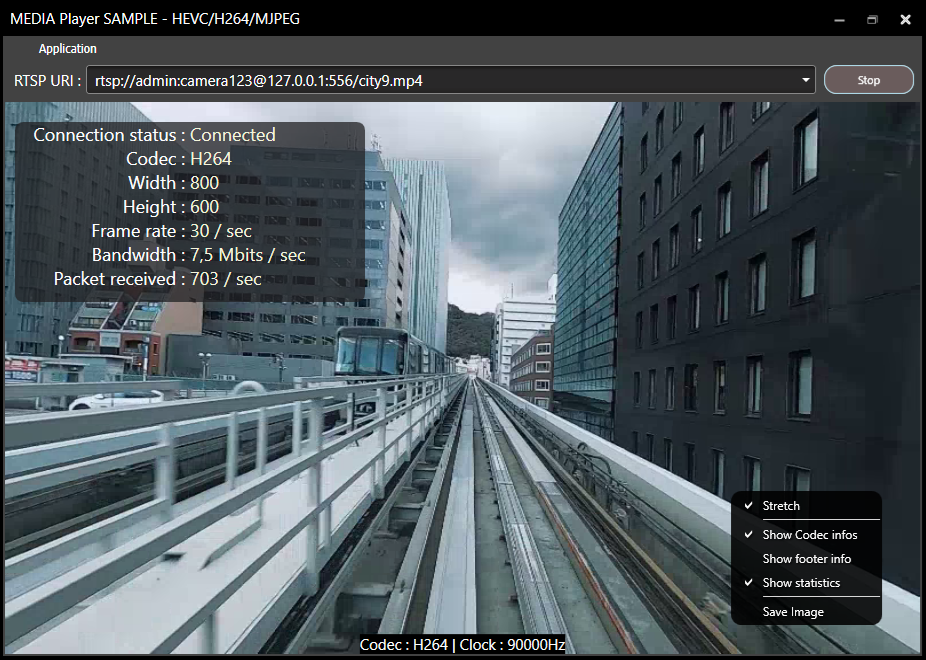
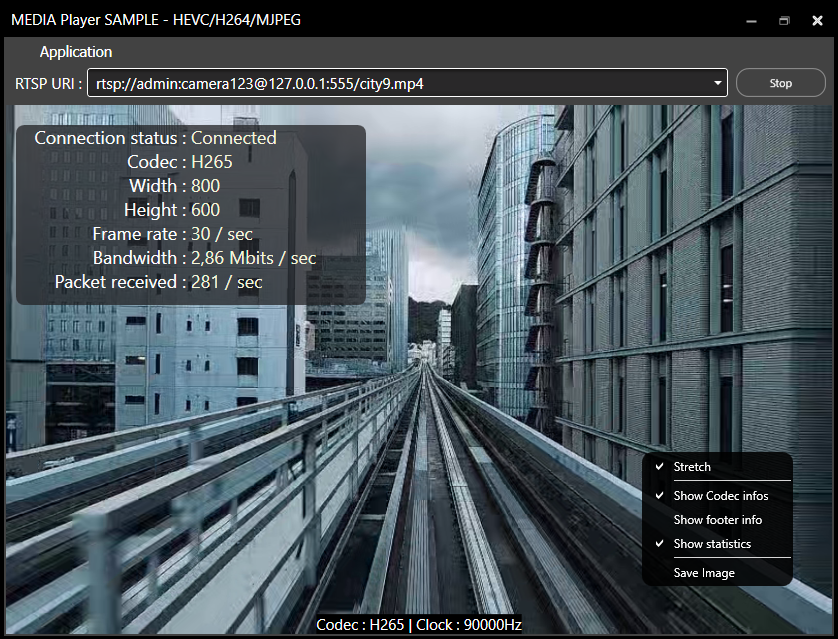
changing home picture of the repo

diff --git a/RabbitOM.Player/Configuration/ApplicationConfiguration.cs b/RabbitOM.Player/Configuration/ApplicationConfiguration.cs
@@ -19,6 +19,9 @@ namespace RabbitOM.Player.Configuration
             yield return "rtsp://admin:camera123@127.0.0.1:554/city5.mp4";
             yield return "rtsp://admin:camera123@127.0.0.1:554/city6.mp4";
             yield return "rtsp://admin:camera123@127.0.0.1:554/city7.mp4";
+            yield return "rtsp://admin:camera123@127.0.0.1:554/city8.mp4";
+            yield return "rtsp://admin:camera123@127.0.0.1:554/city9.mp4";
+            yield return "rtsp://admin:camera123@127.0.0.1:554/city10.mp4";
             yield return "rtsp://admin:camera123@127.0.0.1:554/toy.mp4";
             yield return "rtsp://admin:camera123@127.0.0.1:554/movie.mp4";
             yield return "rtsp://admin:camera123@127.0.0.1:554/earth.avi";
@@ -43,6 +46,9 @@ namespace RabbitOM.Player.Configuration
             yield return "rtsp://admin:camera123@127.0.0.1:555/city5.mp4";
             yield return "rtsp://admin:camera123@127.0.0.1:555/city6.mp4";
             yield return "rtsp://admin:camera123@127.0.0.1:555/city7.mp4";
+            yield return "rtsp://admin:camera123@127.0.0.1:555/city8.mp4";
+            yield return "rtsp://admin:camera123@127.0.0.1:555/city9.mp4";
+            yield return "rtsp://admin:camera123@127.0.0.1:555/city10.mp4";
             yield return "rtsp://admin:camera123@127.0.0.1:555/toy.mp4";
             yield return "rtsp://admin:camera123@127.0.0.1:555/movie.mp4";
             yield return "rtsp://admin:camera123@127.0.0.1:555/earth.avi";
@@ -67,6 +73,9 @@ namespace RabbitOM.Player.Configuration
             yield return "rtsp://admin:camera123@127.0.0.1:556/city5.mp4";
             yield return "rtsp://admin:camera123@127.0.0.1:556/city6.mp4";
             yield return "rtsp://admin:camera123@127.0.0.1:556/city7.mp4";
+            yield return "rtsp://admin:camera123@127.0.0.1:556/city8.mp4";
+            yield return "rtsp://admin:camera123@127.0.0.1:556/city9.mp4";
+            yield return "rtsp://admin:camera123@127.0.0.1:556/city10.mp4";
             yield return "rtsp://admin:camera123@127.0.0.1:556/toy.mp4";
             yield return "rtsp://admin:camera123@127.0.0.1:556/movie.mp4";
             yield return "rtsp://admin:camera123@127.0.0.1:556/earth.avi";
